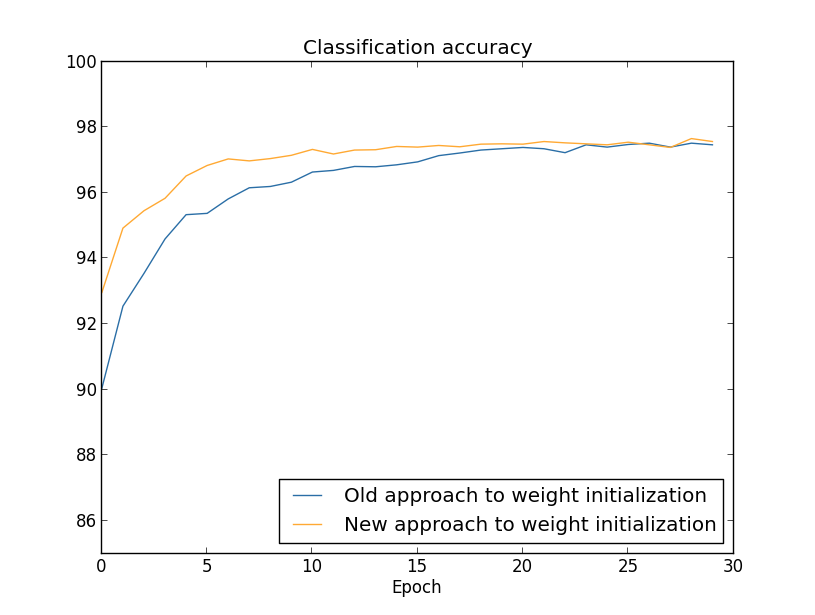
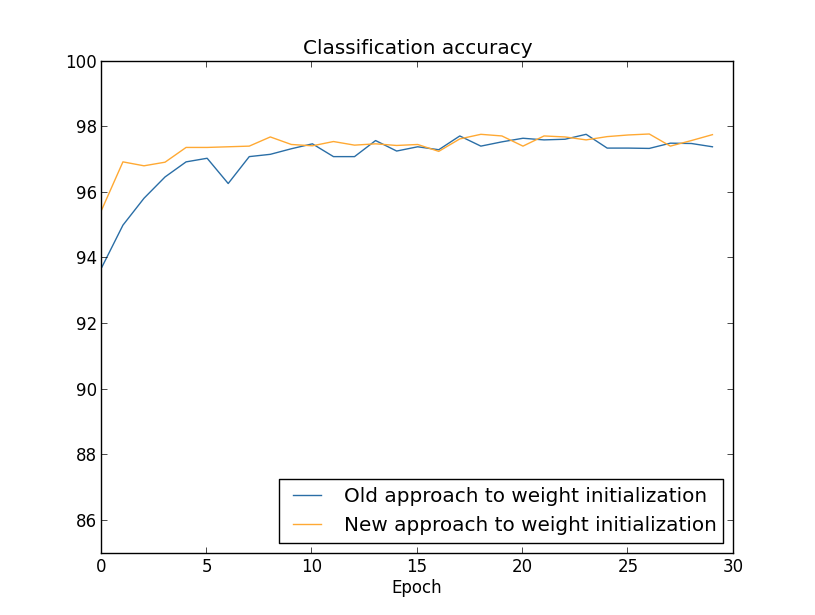
Regenerating graphs for 1/sqrt weight initialization

diff --git a/fig/weight_initialization.py b/fig/weight_initialization.py
@@ -42,13 +42,13 @@ def run_network(filename):
     print "Train the network using the default starting weights."
     default_vc, default_va, default_tc, default_ta \
         = net.SGD(training_data, 30, 10, 0.01,
-                  evaluation_data=validation_data, lmbda = 0.002,
+                  evaluation_data=validation_data, lmbda = 0.001,
                   monitor_evaluation_accuracy=True)
     print "Train the network using the large starting weights."
     net.large_weight_initializer()
     large_vc, large_va, large_tc, large_ta \
         = net.SGD(training_data, 30, 10, 0.01,
-                  evaluation_data=validation_data, lmbda = 0.002,
+                  evaluation_data=validation_data, lmbda = 0.001,
                   monitor_evaluation_accuracy=True)
     f = open(filename, "w")
     json.dump({"default_weight_initialization":
